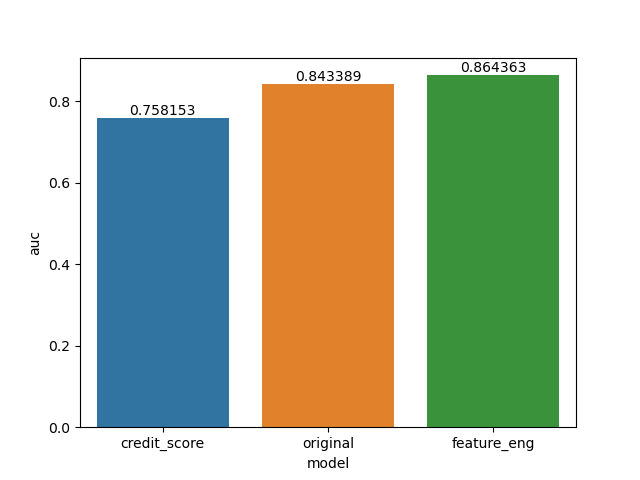
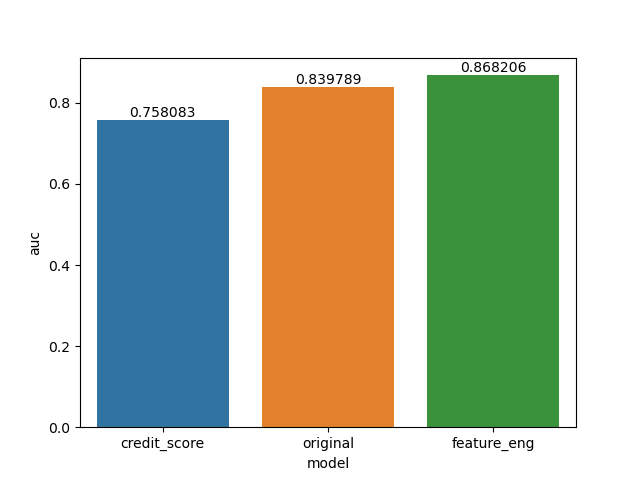
allow non-parquet pandas to load data (?)

diff --git a/src/risknet/proc/reducer.py b/src/risknet/proc/reducer.py
@@ -5,6 +5,7 @@ It also defines the Reducer class where we use ts split (timeseries split) t
 
 from pandas import DataFrame
 import pandas as pd
+import dask.dataframe as dd
 import numpy as np
 from typing import List, Tuple
 import pyarrow.parquet as pq
@@ -41,12 +42,10 @@ def reduce(fm_root, i, p_true):
                 pd.read_pickle(fm_root + 'dev_reg_labels.parquet'), on="loan_sequence_number",
                 how="inner").drop(columns=drop_cols), sort_key='first_payment_date', split_ratio=[0.8, 0.1, 0.1])])
     else:
-        df = pd.concat([Reducer.simple_ts_split(pd.read_csv(fm_root + 'historical_data_2009Q1.txt', sep='|', index_col=False,
-                                                            names=origination_cols, nrows=1_000_000).merge(
-            pd.read_pickle(fm_root + 'dev_labels.pkl'), on="loan_sequence_number",
-            how="inner").merge(
-            pd.read_pickle(fm_root + 'dev_reg_labels.pkl'), on="loan_sequence_number",
-            how="inner").drop(columns=drop_cols), sort_key='first_payment_date', split_ratio=[0.8, 0.1, 0.1])])
+        df = pd.concat([Reducer.simple_ts_split(pd.read_csv(fm_root + "historical_data_2009Q1.txt", sep='|', index_col=False, nrows=1_000_000, names=origination_cols).merge(
+            pd.read_pickle(fm_root + 'dev_labels.pkl'), on="loan_sequence_number", how="inner").merge(
+            pd.read_pickle(fm_root + 'dev_reg_labels.pkl'), on="loan_sequence_number", how="inner").drop(columns=drop_cols), sort_key='first_payment_date', split_ratio=[0.8, 0.1, 0.1])])
+        print(df.head(5))
     return df
 
 class Reducer:

diff --git a/src/risknet/run/main.py b/src/risknet/run/main.py
@@ -28,12 +28,12 @@ def times(models):
 #pipeline.py returns auc, pr, recall, time
 '''
 Iterate to generate:
-- Credit score model (cs): The only feature is credit score
-- Original Gangster model (OG): the legacy code from Rod's project
-- All optimizations added (all_in): OG + parquet + feature engineering
+- Credit score model (cs): The only feature is credit score. Loaded using pandas
+- Original Gangster model (OG): the legacy code from Rod's project. Loaded using parquet
+- All optimizations added (all_in): OG + parquet + feature engineering. Loaded using parquet
 '''
 #Currently loading all with parquet
-cs = pipeline.pipeline(fe_enabled=False, baseline=True, p_true=True)
+cs = pipeline.pipeline(fe_enabled=False, baseline=True, p_true=False)
 og = pipeline.pipeline(fe_enabled=False, baseline=False, p_true=True)
 all_in = pipeline.pipeline(fe_enabled=True, baseline=False, p_true=True)
 
@@ -47,7 +47,7 @@ ts = times(models_used)
 end = time.time()
 elapsed = end - start
 
-print("Time to run all 3 models and plot: " + str(round((elapsed / 60), 2)) + " minutes")
+print("Time to run all " + str(len(order)) + " models and plot: " + str(round((elapsed / 60), 2)) + " minutes")
 #About 25 minutes to run 3 models
 
 models = pd.DataFrame(
@@ -71,7 +71,7 @@ plt.savefig('graphs/prs.png')
 plt.show()
 
 time_bar = sns.barplot(data=models, x='model', y='times')
-time_bar.bar_label(time_bar.containers[0], fontsize=10)
+time_bar.bar_label(time_bar, fontsize=10)
 plt.savefig('graphs/time.png')
 plt.show()
 

diff --git a/src/risknet/run/pipeline.py b/src/risknet/run/pipeline.py
@@ -61,14 +61,17 @@ def pipeline(fe_enabled=True, baseline=False, p_true=True):
     #Note: only need to do this once!
     #parquet.parquet_convert('historical_data_time_2009Q1.txt','historical_data_2009Q1.txt', fm_root)
 
-    #Step 1: Label Processing: Returns dev_labels.pkl and dev_reg_labels.pkl
+    #Step 1: Label Processing: Returns dev_labels.pkl and dev_reg_labels.pkl (essential if p_true)
+    #Note: if using parquet, we already labeled data with train/test/val flags in parquet.parquet_convert
     if not p_true:
-        data = [('historical_data_time_2009Q1.txt','historical_data_2009Q1.txt')]
-    label_prep.label_proc(fm_root, data, p_true)
+        data = [('historical_data_time_2009Q1.txt','dev_labels.pkl', 'dev_reg_labels.pkl')]
+        label_prep.label_proc(fm_root, data, p_true)
 
     #Step 2: Reducer: Returns df of combined data to encode
     df = reducer.reduce(fm_root, data[0], p_true)
     print(df.shape[0])
+    #What's the length of data we're using for this dataset? (Includes train/val/test)
+    # 621,484 entries when reading into parquet, 
     #As of right now, we are only pulling 2009 data. So we only need data[0].
 
     #However, if we want to add 2014 data in the future, we can add another Tuple(str,str,str) to the List data

diff --git a/src/risknet/run/model.py b/src/risknet/run/model.py
@@ -158,7 +158,7 @@ class XGBCVTrain(object):
 
         logger.info("Total time: " + str(round((total / 60), 2)) + "minutes")
 
-        self.time = round(total / 60, 2)
+        self.time = float(round(total / 60, 2))
 
     def predict(self, scoring_data: DataFrame):
 
